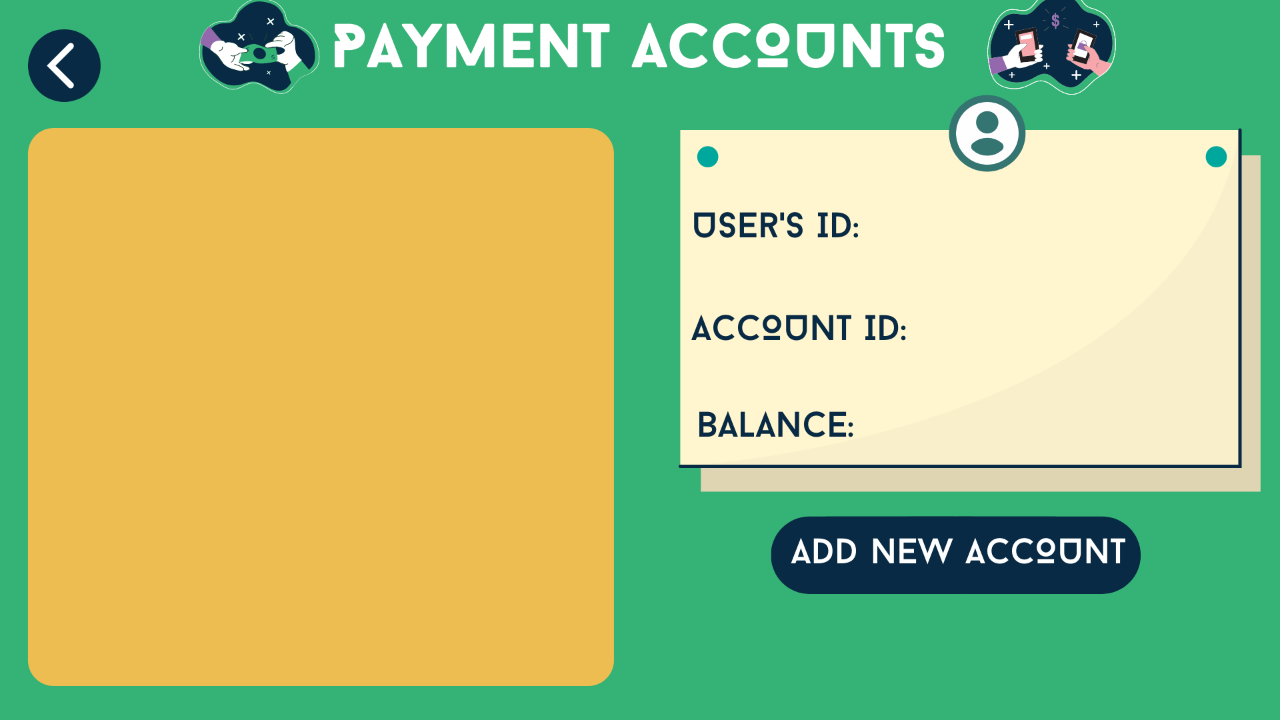
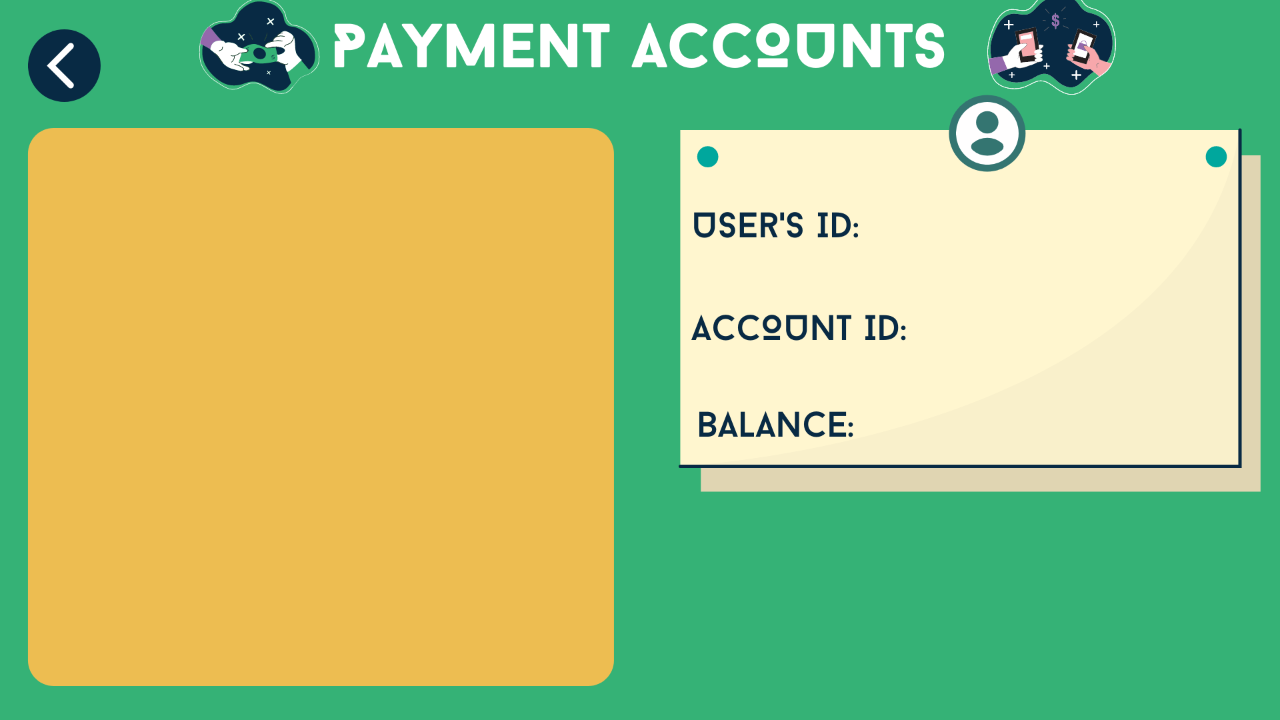
Modify

Changed region(s): [[0.5938, 0.7028, 0.9062, 0.825]]

diff --git a/PaymentServer/src/paymentserver/AccountManagement/AccountManagement.java b/PaymentServer/src/paymentserver/AccountManagement/AccountManagement.java
@@ -25,11 +25,13 @@ class ManagedUser{
     private String UserID;
     private String UserName;
     private int loan = 0;
+    private int balance = 0;
 
-    ManagedUser(String id, String name, int loan){
+    ManagedUser(String id, String name, int loan, int balance){
         this.UserID = id;
         this.UserName = name;
         this.loan = loan;
+        this.balance = balance;
     }
     
     public String getId(){
@@ -42,6 +44,10 @@ class ManagedUser{
     
     public int getLoan(){
         return loan;
+    }
+    
+    public int getBalance(){
+        return balance;
     }
 }
 
@@ -74,11 +80,11 @@ public class AccountManagement extends javax.swing.JFrame {
             Connection connect = DriverManager.getConnection("jdbc:mysql://sql6.freemysqlhosting.net:3306/sql6448649?useSSL = false", "sql6448649", "ygTCgTJZu6");
             Statement state = connect.createStatement();
             
-            String sql = "select * from ManagedUser where isPay = 0";
+            String sql = "select * from ManagedUser where isPay = 1";
             ResultSet res = state.executeQuery(sql);
             
             while(res.next()){
-                ManagedUser tmp = new ManagedUser(res.getString("UserID"), res.getString("Fullname"), res.getInt("Loan"));
+                ManagedUser tmp = new ManagedUser(res.getString("UserID"), res.getString("Fullname"), res.getInt("Loan"), res.getInt("Balance"));
                 lst.add(tmp);
             }
 
@@ -154,7 +160,6 @@ public class AccountManagement extends javax.swing.JFrame {
         TextUserID = new javax.swing.JTextField();
         TextAccountID = new javax.swing.JTextField();
         TextBalance = new javax.swing.JTextField();
-        BtnAdd = new javax.swing.JLabel();
         jLabel1 = new javax.swing.JLabel();
 
         setDefaultCloseOperation(javax.swing.WindowConstants.EXIT_ON_CLOSE);
@@ -202,13 +207,6 @@ public class AccountManagement extends javax.swing.JFrame {
         TextBalance.setFont(new java.awt.Font("Fredoka One", 0, 24)); // NOI18N
         getContentPane().add(TextBalance, new org.netbeans.lib.awtextra.AbsoluteConstraints(870, 410, 220, 40));
 
-        BtnAdd.addMouseListener(new java.awt.event.MouseAdapter() {
-            public void mouseClicked(java.awt.event.MouseEvent evt) {
-                BtnAddMouseClicked(evt);
-            }
-        });
-        getContentPane().add(BtnAdd, new org.netbeans.lib.awtextra.AbsoluteConstraints(770, 520, 370, 70));
-
         jLabel1.setIcon(new javax.swing.ImageIcon(getClass().getResource("/paymentserver/AccountManagement/AddPaymentAccount.png"))); // NOI18N
         getContentPane().add(jLabel1, new org.netbeans.lib.awtextra.AbsoluteConstraints(0, 0, -1, -1));
 
@@ -222,36 +220,6 @@ public class AccountManagement extends javax.swing.JFrame {
         dispose();
     }//GEN-LAST:event_BtnBackMouseClicked
 
-    private void BtnAddMouseClicked(java.awt.event.MouseEvent evt) {//GEN-FIRST:event_BtnAddMouseClicked
-        // TODO add your handling code here:
-        if (userid != ""){
-            try {
-                Class.forName("com.mysql.jdbc.Driver");
-                Connection connect = DriverManager.getConnection("jdbc:mysql://sql6.freemysqlhosting.net:3306/sql6448649?useSSL = false", "sql6448649", "ygTCgTJZu6");
-                Statement state = connect.createStatement();
-
-                String sql = "update ManagedUser set isPay = 1, Balance = 1000000 where UserID = '" + userid + "'";
-                state.executeUpdate(sql);
-
-                connect.close();
-                
-                if (row != -1){
-                    lst.remove(row);
-                    refreshJTable();
-                    showData();
-                    EditTableHeightWidth();
-                    JOptionPane.showMessageDialog(this, "Create payment account successfully!");
-                }
-                row = -1;
-
-            } catch (ClassNotFoundException ex) {
-                Logger.getLogger(AccountManagement.class.getName()).log(Level.SEVERE, null, ex);
-            } catch (SQLException ex) {
-                Logger.getLogger(AccountManagement.class.getName()).log(Level.SEVERE, null, ex);
-            }
-        }
-    }//GEN-LAST:event_BtnAddMouseClicked
-
     private void TabUserMouseClicked(java.awt.event.MouseEvent evt) {//GEN-FIRST:event_TabUserMouseClicked
         // TODO add your handling code here:
         int index = TabUser.getSelectedRow(); // row that manager choose.
@@ -261,7 +229,7 @@ public class AccountManagement extends javax.swing.JFrame {
         TextUserID.setText(model.getValueAt(index, 1).toString());
         userid = TextUserID.getText();
         TextAccountID.setText(model.getValueAt(index, 1).toString());
-        TextBalance.setText("1000000");        
+        TextBalance.setText(Integer.toString(lst.get(index).getBalance()));        
     }//GEN-LAST:event_TabUserMouseClicked
 
     /**
@@ -300,7 +268,6 @@ public class AccountManagement extends javax.swing.JFrame {
     }
 
     // Variables declaration - do not modify//GEN-BEGIN:variables
-    private javax.swing.JLabel BtnAdd;
     private javax.swing.JLabel BtnBack;
     private javax.swing.JTable TabUser;
     private javax.swing.JTextField TextAccountID;

diff --git a/PaymentServer/src/paymentserver/PaymentServer.java b/PaymentServer/src/paymentserver/PaymentServer.java
@@ -87,23 +87,30 @@ public class PaymentServer {
                             Class.forName("com.mysql.jdbc.Driver");
                             Connection connect = DriverManager.getConnection("jdbc:mysql://sql6.freemysqlhosting.net:3306/sql6448649?useSSL = false", "sql6448649", "ygTCgTJZu6");
                             Statement state = connect.createStatement();
-
-                            int length = getLengthTransaction();
-                            String num = String.format("%05d", length + 1);
-                            String TransactionID = "TR" + num;
-
-                            String sql = "insert into Transaction(TransactionID, UserID, TransactionTime, AccountID, Total) values"
-                                    + "('" + TransactionID + "', '" + lst[0] + "', '" + getCurrentTime() + "', '"
-                                    + ReceivedAccount + "', " + lst[1] + ")";
-                            state.executeUpdate(sql);
-
-                            sql = "update ManagedUser set Balance = Balance - Loan, Loan = 0 where UserID = " + lst[0];
-                            state.executeUpdate(sql);
                             
-                            sql = "update MainAccount set Balance = Balance + " + lst[1] + " where AccountID = '" + ReceivedAccount + "'";
-                            state.executeUpdate(sql);
-                            
-                            dos.writeUTF("Transaction successful");
+                            if (lst[1].equals("Request")){
+                                String sql = "update ManagedUser set isPay = 1, Balance = 1000000 where UserID = '" + lst[0] + "'";
+                                state.executeUpdate(sql);
+                                dos.writeUTF("This user can begin to transact.");
+                            }
+                            else{
+                                int length = getLengthTransaction();
+                                String num = String.format("%05d", length + 1);
+                                String TransactionID = "TR" + num;
+
+                                String sql = "insert into Transaction(TransactionID, UserID, TransactionTime, AccountID, Total) values"
+                                        + "('" + TransactionID + "', '" + lst[0] + "', '" + getCurrentTime() + "', '"
+                                        + ReceivedAccount + "', " + lst[1] + ")";
+                                state.executeUpdate(sql);
+
+                                sql = "update ManagedUser set Balance = Balance - Loan, Loan = 0 where UserID = " + lst[0];
+                                state.executeUpdate(sql);
+
+                                sql = "update MainAccount set Balance = Balance + " + lst[1] + " where AccountID = '" + ReceivedAccount + "'";
+                                state.executeUpdate(sql);
+
+                                dos.writeUTF("Transaction successful");
+                            }
                             connect.close();
                             dos.close();
                             dis.close();

diff --git a/JavaCovid19App/src/javacovid19app/ManagedUser/ManagedUserTransaction/ManagedUserTransaction.java b/JavaCovid19App/src/javacovid19app/ManagedUser/ManagedUserTransaction/ManagedUserTransaction.java
@@ -53,6 +53,7 @@ public class ManagedUserTransaction extends javax.swing.JFrame {
     public ManagedUserTransaction(String username) {
         this.userID = username;
         initComponents();
+        TabTrans.setDefaultEditor(Object.class, null);
         TextBalance.setOpaque(false);
         TextBalance.setBorder(javax.swing.BorderFactory.createEmptyBorder());
         TextBalance.setEditable(false);
@@ -238,17 +239,23 @@ public class ManagedUserTransaction extends javax.swing.JFrame {
             }
             connect.close();
             
+            InetAddress ip = InetAddress.getByName("localhost");
+            
+            Socket s = new Socket(ip, 1234);
+
+            DataOutputStream dos = new DataOutputStream(s.getOutputStream());
+            DataInputStream din = new DataInputStream(s.getInputStream());
+            
             if (val == 0){
-                JOptionPane.showMessageDialog(this, "This account need to create an banking account");
+                dos.writeUTF(userID + "-" + "Request");
+                String message = din.readUTF();
+                JOptionPane.showMessageDialog(this, message);
+                din.close();
+                dos.close();
+                s.close();
             }
             
             else{
-                InetAddress ip = InetAddress.getByName("localhost");
-            
-                Socket s = new Socket(ip, 1234);
-
-                DataOutputStream dos = new DataOutputStream(s.getOutputStream());
-                DataInputStream din = new DataInputStream(s.getInputStream());
                 dos.writeUTF(userID + "-" + loan);
                 
                 String message = din.readUTF();
